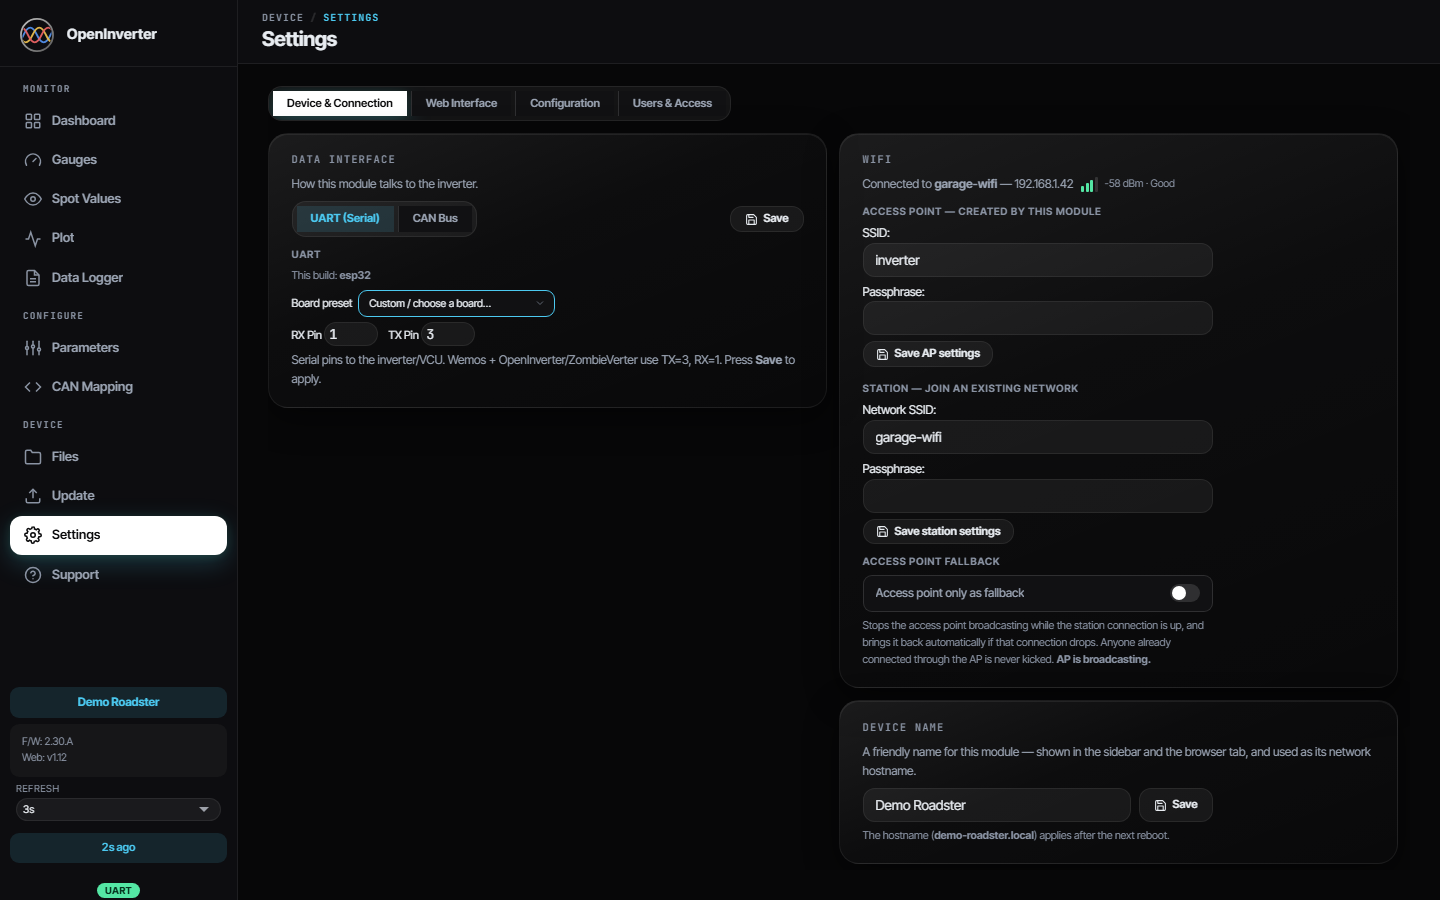
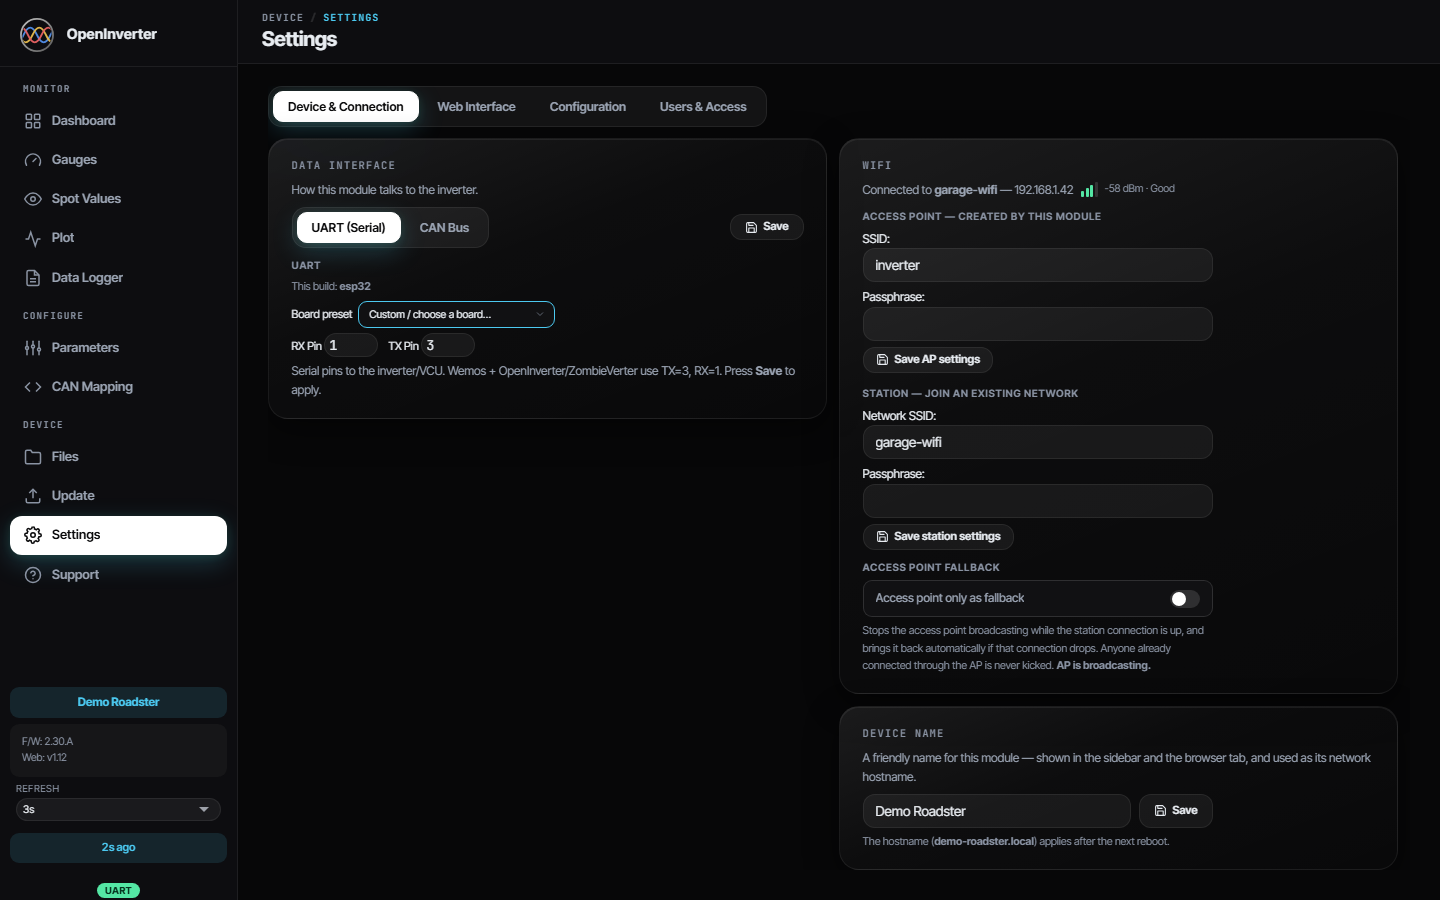
UI: segmented controls use the Blend style; phone gauge header stays on one row
The old .seg rules (square corners, dividers) outranked the page pills, so
the gauge page tabs were square. On phones the Gauges header buttons go
icon-only (labels kept as aria-label/tooltip) so Edit Layout no longer wraps.

[skip release]

diff --git a/data/app.js b/data/app.js
@@ -5722,9 +5722,9 @@ const Gauges = ({ dash = false }) => {
           <div style="display:flex;align-items:center;gap:8px;flex-wrap:wrap">
             ${!dash && pages.some(p => p.cond && p.cond.name) && html`
               <label class="toggle-row" id="auto-pages" style="width:auto;padding:4px 10px;font-size:.72rem" title="Conditional page display: switch pages automatically when a page condition matches">
-                <span class="toggle-label">Auto-switch</span>
+                <span class="toggle-label hd-label">Auto-switch</span>
                 <span class="switch sm">
-                  <input type="checkbox" checked=${autoPage} onchange=${e => {
+                  <input type="checkbox" aria-label="Auto-switch pages" checked=${autoPage} onchange=${e => {
                     const v = e.target.checked;
                     setAutoPage(v);
                     lastHitRef.current = null; // re-arm: a live match fires immediately
@@ -5735,10 +5735,11 @@ const Gauges = ({ dash = false }) => {
               </label>`}
             ${!editing && html`<button id="rec-btn" onclick=${() => (recording ? stopRec() : startRec())}
               title=${recording ? 'Stop and review the recording' : 'Record the streamed values for CSV export'}
+              aria-label=${recording ? 'Stop recording' : 'Record'}
               style=${'font-size:.75rem;padding:4px 12px' + (recording ? ';color:var(--red);border-color:var(--red)' : '')}>
-              ${recording ? '■ Stop' : '● Record'}</button>`}
-            ${!editing && html`<button id="fullscreen-btn" onclick=${() => setKiosk(true)} title="Full screen — gauges only, all chrome hidden" style="font-size:.75rem;padding:4px 12px">⛶ Full screen</button>`}
-            ${!editing && can('operator') && html`<button onclick=${startEditing} style="font-size:.75rem;padding:4px 12px"><${Icon} n="edit" />Edit Layout</button>`}
+              <span aria-hidden="true">${recording ? '■' : '●'}</span><span class="hd-label">${recording ? 'Stop' : 'Record'}</span></button>`}
+            ${!editing && html`<button id="fullscreen-btn" onclick=${() => setKiosk(true)} title="Full screen — gauges only, all chrome hidden" aria-label="Full screen" style="font-size:.75rem;padding:4px 12px"><span aria-hidden="true">⛶</span><span class="hd-label">Full screen</span></button>`}
+            ${!editing && can('operator') && html`<button onclick=${startEditing} title="Edit Layout" aria-label="Edit Layout" style="font-size:.75rem;padding:4px 12px"><${Icon} n="edit" /><span class="hd-label">Edit Layout</span></button>`}
           </div>
         </div>
         ${!dash && html`<div id="gauge-pages" class="seg" style="margin-bottom:.6rem">

diff --git a/data/style.css b/data/style.css
@@ -561,11 +561,12 @@ body.kiosk #communication-error-bar { display: none !important; }
 .update-badge button:hover { background: none; border: none; transform: none; }
 
 /* segmented picker (UART | CAN Bus) */
-.seg { display: inline-flex; border: 1px solid var(--border2); border-radius: var(--radius-xs); overflow: hidden; }
-.seg button { border: none; border-radius: 0; background: var(--surface); font-size: .75rem; padding: 5px 14px; color: var(--text2); }
-.seg button:hover { transform: none; }
-.seg button + button { border-left: 1px solid var(--border2); }
-.seg button.sel { background: var(--accent-glow); color: var(--accent); font-weight: 700; }
+/* segmented controls (.seg, defined with the page switchers below): every
+   button inside is a rounded segment; the chosen one is the selected pill */
+.seg button { border: 1px solid transparent; border-radius: 10px; background: transparent; font-size: .82rem; font-weight: 620;
+  padding: 6px 14px; color: var(--text2); width: auto; }
+.seg button:hover { transform: none; background: var(--ctl-bg); color: var(--text); border-color: transparent; }
+.seg button.sel, .seg button.active { background: var(--on-bg); color: var(--on-fg); border-color: var(--on-bg); box-shadow: var(--glow-pri); }
 
 /* ===== FORMS ===== */
 input[type=number], input[type=text], input[type=password], select, textarea {
@@ -1127,5 +1128,10 @@ body.kiosk #topbar, body.kiosk #bottombar { display: none !important; }
   #topbar { padding: 8px 14px; min-height: 52px; margin-bottom: 10px; }
   .page-title { font-size: 1.1rem; }
   .savebar { top: 0; }
+  /* gauge/dashboard header actions: icons only, so they stay on one row
+     (the labels remain as aria-label and tooltip) */
+  #gauges-head .hd-label { display: none; }
+  #gauges-head > div { flex-wrap: nowrap !important; gap: 6px !important; }
+  #gauges-head button { min-width: 40px; min-height: 36px; justify-content: center; padding: 4px 10px !important; }
   .readonly-bar { bottom: calc(70px + env(safe-area-inset-bottom)); }
 }
